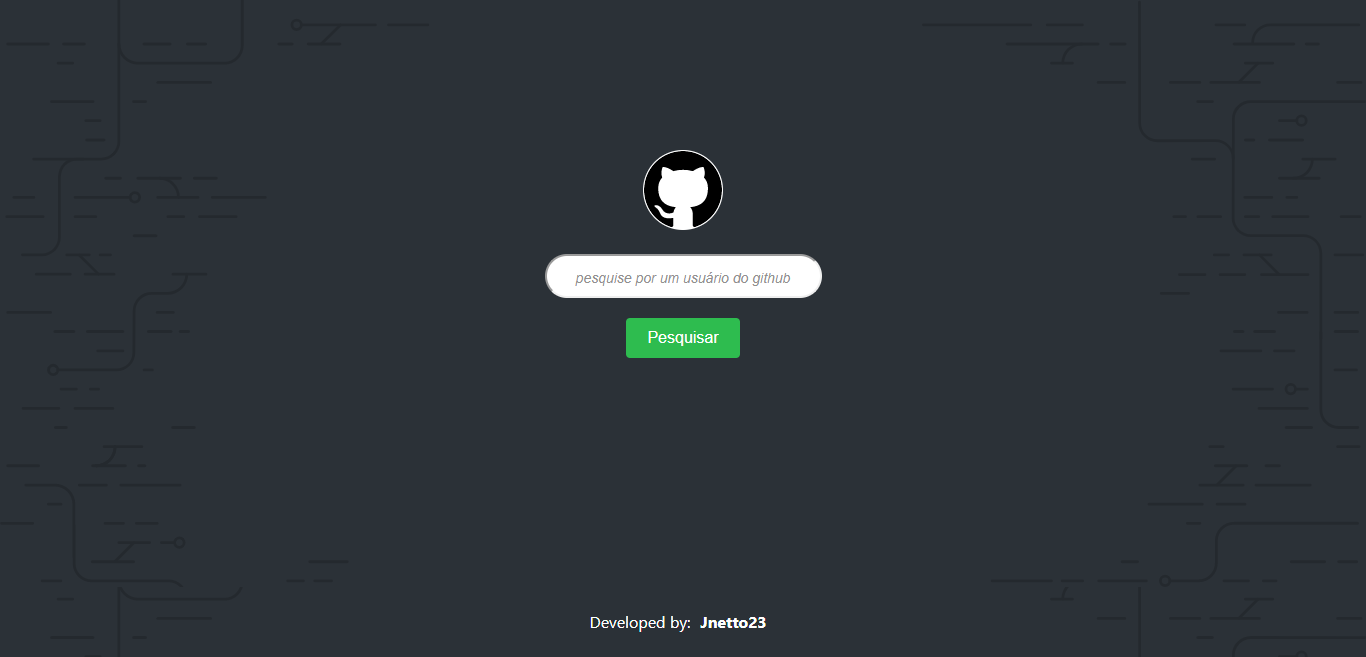
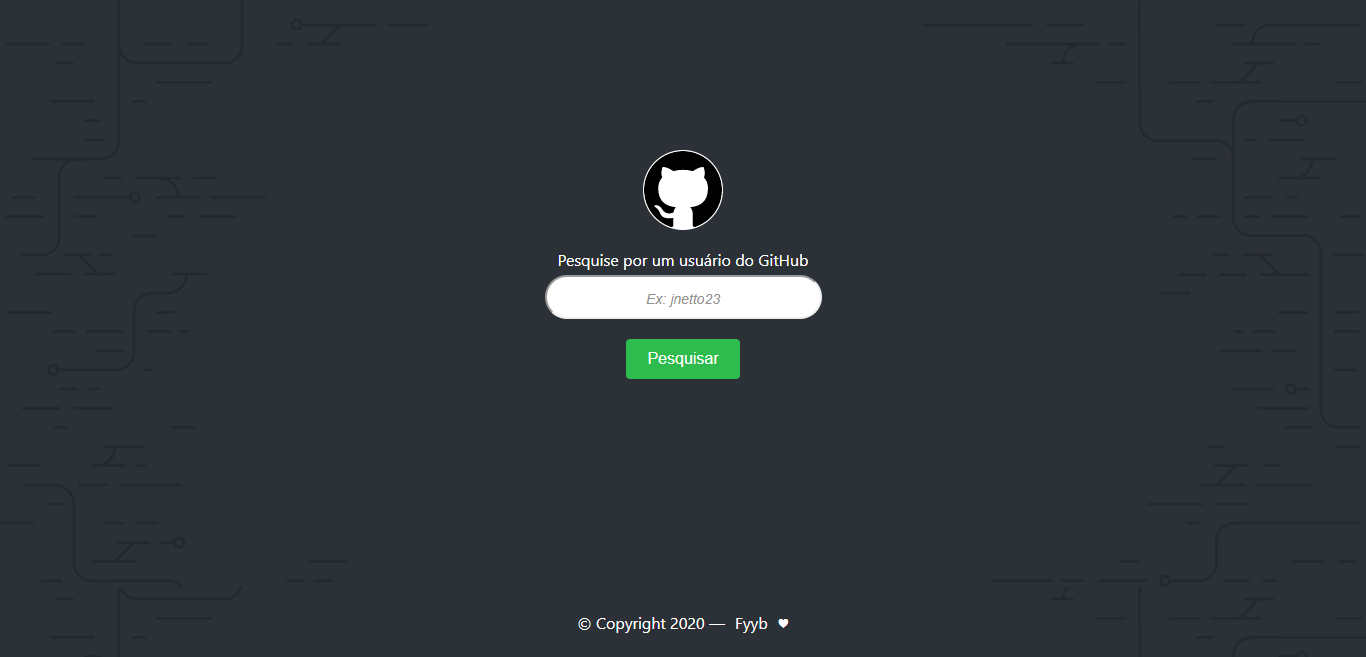
updated html

Changed region(s): [[0.3997, 0.3653, 0.6149, 0.5784], [0.4305, 0.9437, 0.5842, 0.9741]]

diff --git a/index.html b/index.html
@@ -1,10 +1,31 @@
 <!DOCTYPE html>
-<html lang="en">
+<html lang="pt-br">
 <head>
-    <meta charset="UTF-8">
-    <meta name="viewport" content="width=device-width, initial-scale=1.0">
-    <meta http-equiv="X-UA-Compatible" content="ie=edge">
-    <title>GitHub Consulta</title>
+     <!-- SEO -->
+     <meta http-equiv='Content-Type' content='text/html; charset=UTF-8' />
+     <meta name='viewport' content='width=device-width, initial-scale=1' />
+     <meta http-equiv='X-UA-Compatible' content='ie=edge' />
+     <base href='/' />
+     <title>GitHub Consulta</title>
+     <meta name='description' content='Consulte informações de um usuário do GitHub através de uma aplicação simples que utiliza Promises para consumir os dados da API do próprio GitHub.'/>
+     <meta name='keywords' content='fyyb, jnetto23, Git Consulta, javascript, promises, portfolio, case study, estudo'/>
+     <meta name='robots' content='index,follow' />
+     <meta name='rating' content='General' />
+     <meta name='copyright'content='Fyyb'>
+     <link rel='canonical' href='https://git-consulta.fyyb.com.br' />
+     <!-- Localização -->
+     <meta name='geo.placename' content='São Paulo-SP'>
+     <meta name='geo.region' content='SP-BR'>
+     <!-- Meta Tags Facebook (https://ogp.me/) -->
+     <meta property='og:url' content='https://git-consulta.fyyb.com.br'>
+     <meta property='og:site_name' content='GitHub Consulta'>
+     <meta property='og:title' content='GitHub Consulta'>
+     <meta property='og:description' content='Consulte informações de um usuário do GitHub através de uma aplicação simples que utiliza Promises para consumir os dados da API do próprio GitHub.'>
+     <meta property='og:type' content='website'>
+     <meta property='og:image' content='https://git-consulta.fyyb.com.br/screenshots/git_consulta-home.png'>
+     <meta property='og:region' content='Brasil'>
+     <meta property='fb:admins' content='605931989767491'>
+     <!-- Desenvolvido por Fyyb - fyyb.com.br -->
     <link rel="stylesheet" href="./style.css">
 </head>
 <body id="app">
@@ -14,14 +35,17 @@
         </div>
         <div class="search">
             <form id="form-search">
-                <input type="text" name="user" placeholder="pesquise por um usuário do github" autofocus>
+                <label for="name">Pesquise por um usuário do GitHub</label>
+                <input type="text" id="name" name="user" placeholder="Ex: jnetto23, diego3g, filipedeschamps" autofocus>
                 <button type="submit">Pesquisar</button>
             </form>
         </div>
     </header>
     <main class="d-none"></main>
     <footer>
-        Developed by: <a href="https://github.com/jnetto23" target="_blanck"><strong> Jnetto23</strong></a>
+        <section class="copyright">
+            &copy; Copyright<script>document.write(' ' + new Date().getFullYear() + ' ');</script>&#8212;<a href="http://fyyb.com.br" target="_blank" rel=”noopener noreferrer”>Fyyb</a>&hearts;
+          </section>  
     </footer>
 
     <script src="./script.js"></script>

diff --git a/style.css b/style.css
@@ -8,7 +8,7 @@
 a {text-decoration: none;}
 a:visited {color: rgb(0, 0, 238);}
 a:hover {text-decoration: underline;}
-html {
+html, body {
     height: 100%;
     min-height: 100%;
 }
@@ -45,12 +45,10 @@ body#app footer {
 }
 #app footer {
     height: 70px;
-    line-height: 70px;
     color: #fff;
     flex-direction: row;
     justify-content: center;
     align-items: center;
-    padding: 20px;
     bottom: 0;
     margin-top: auto;   
 }
@@ -75,6 +73,11 @@ body#app footer {
     align-items: center;
     justify-content: center;
 }
+#app header div.search label {
+    margin-top: 15px;
+    margin-bottom: 5px;
+    color: #fff;
+}
 #app header div.search input {
     height: 44px;
     border-radius: 31px;
@@ -82,7 +85,7 @@ body#app footer {
     font-size: 20px;
     line-height: 44px;
     text-align: center;
-    margin: 20px auto;
+    margin: 0 auto 20px;
 }
 #app header div.search input::placeholder {
     font-size: 14px;
@@ -113,6 +116,9 @@ body#app footer {
 }
 #app header.top .search form {
     flex-direction: row;
+}
+#app header.top .search form label {
+    display: none;
 }
 #app header.top .search form input {
     margin: 0 20px;
@@ -283,3 +289,10 @@ main #user-git #repos-info .repo .footer .repo-language {
         padding-top: 50px; 
     }
 }
+.copyright {
+    text-align: center;
+    padding: 10px 0;
+  }
+  .copyright a {
+    color: #fff;
+  }
